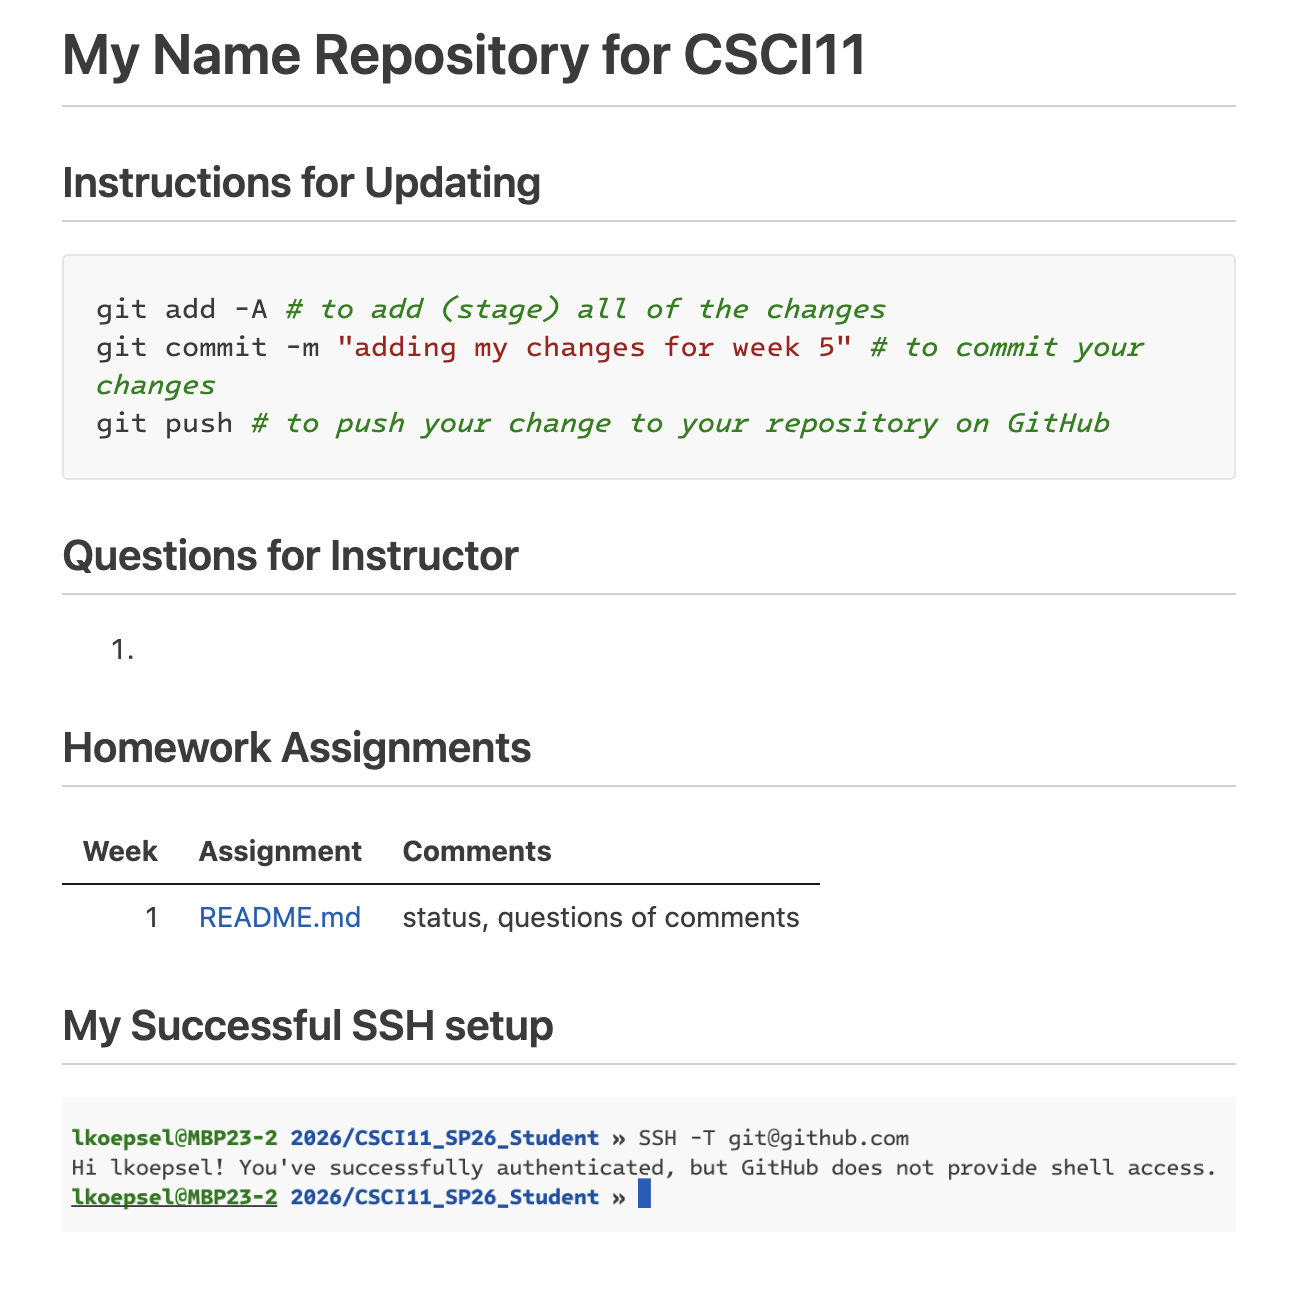
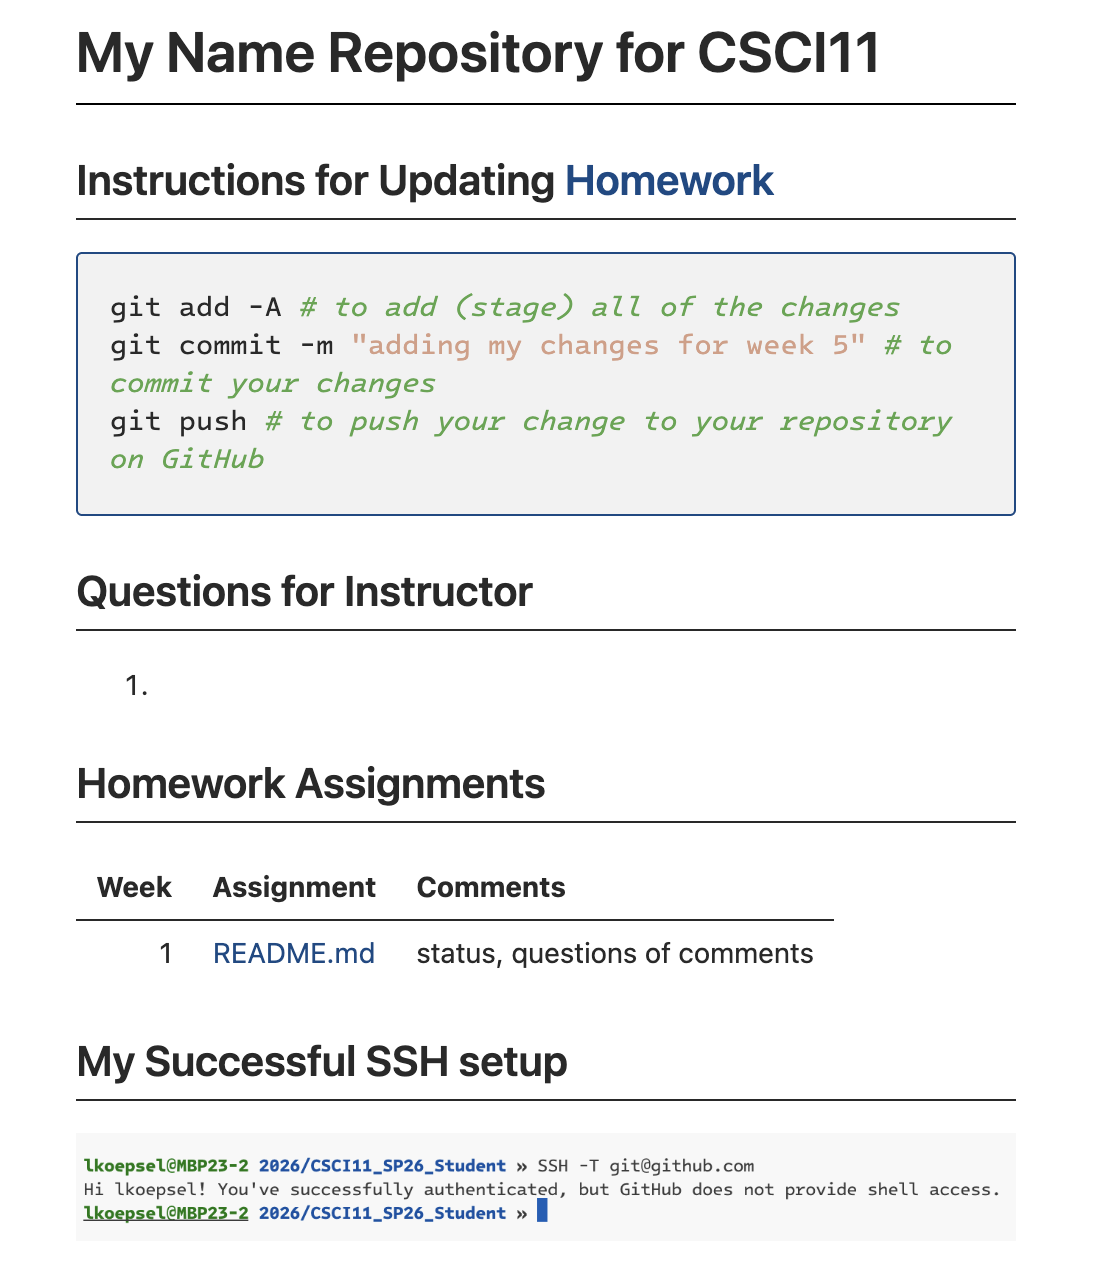
Added homework page and link

diff --git a/README.md b/README.md
@@ -17,6 +17,7 @@ Follow these instructions, to properly setup your repository for this class:
 3. Match the heading levels:
     * **README**.md is H1
     * **Questions...**, **Homework...**, and **My Successful...** are H2
+4. In the heading **Instructions...Homework**, the word "Homework" is a link to local file homework.md
 4. The table is created using a markdown table:
     * **Week** numbers are right-justified
     * **Assignments** are centered

diff --git a/Homework.md b/Homework.md
@@ -8,13 +8,12 @@
 ```bash
 cd CSCI11_Sp26_Instructor
 git pull
-cp -r week_2/ ../CSCI11_Sp26_Student/week_2
+cp -r week_2/ ../CSCI11_Sp26_Student/
 ```
 
 2. Go to your repository to begin work on the assignment:
 ```bash
-cd ..
-cd CSCI11_Sp26_Student/week_2
+cd ../CSCI11_Sp26_Student/week_2
 ```
 
 3. Once completed **OR** you have a question, **update** your work on GitHub:
